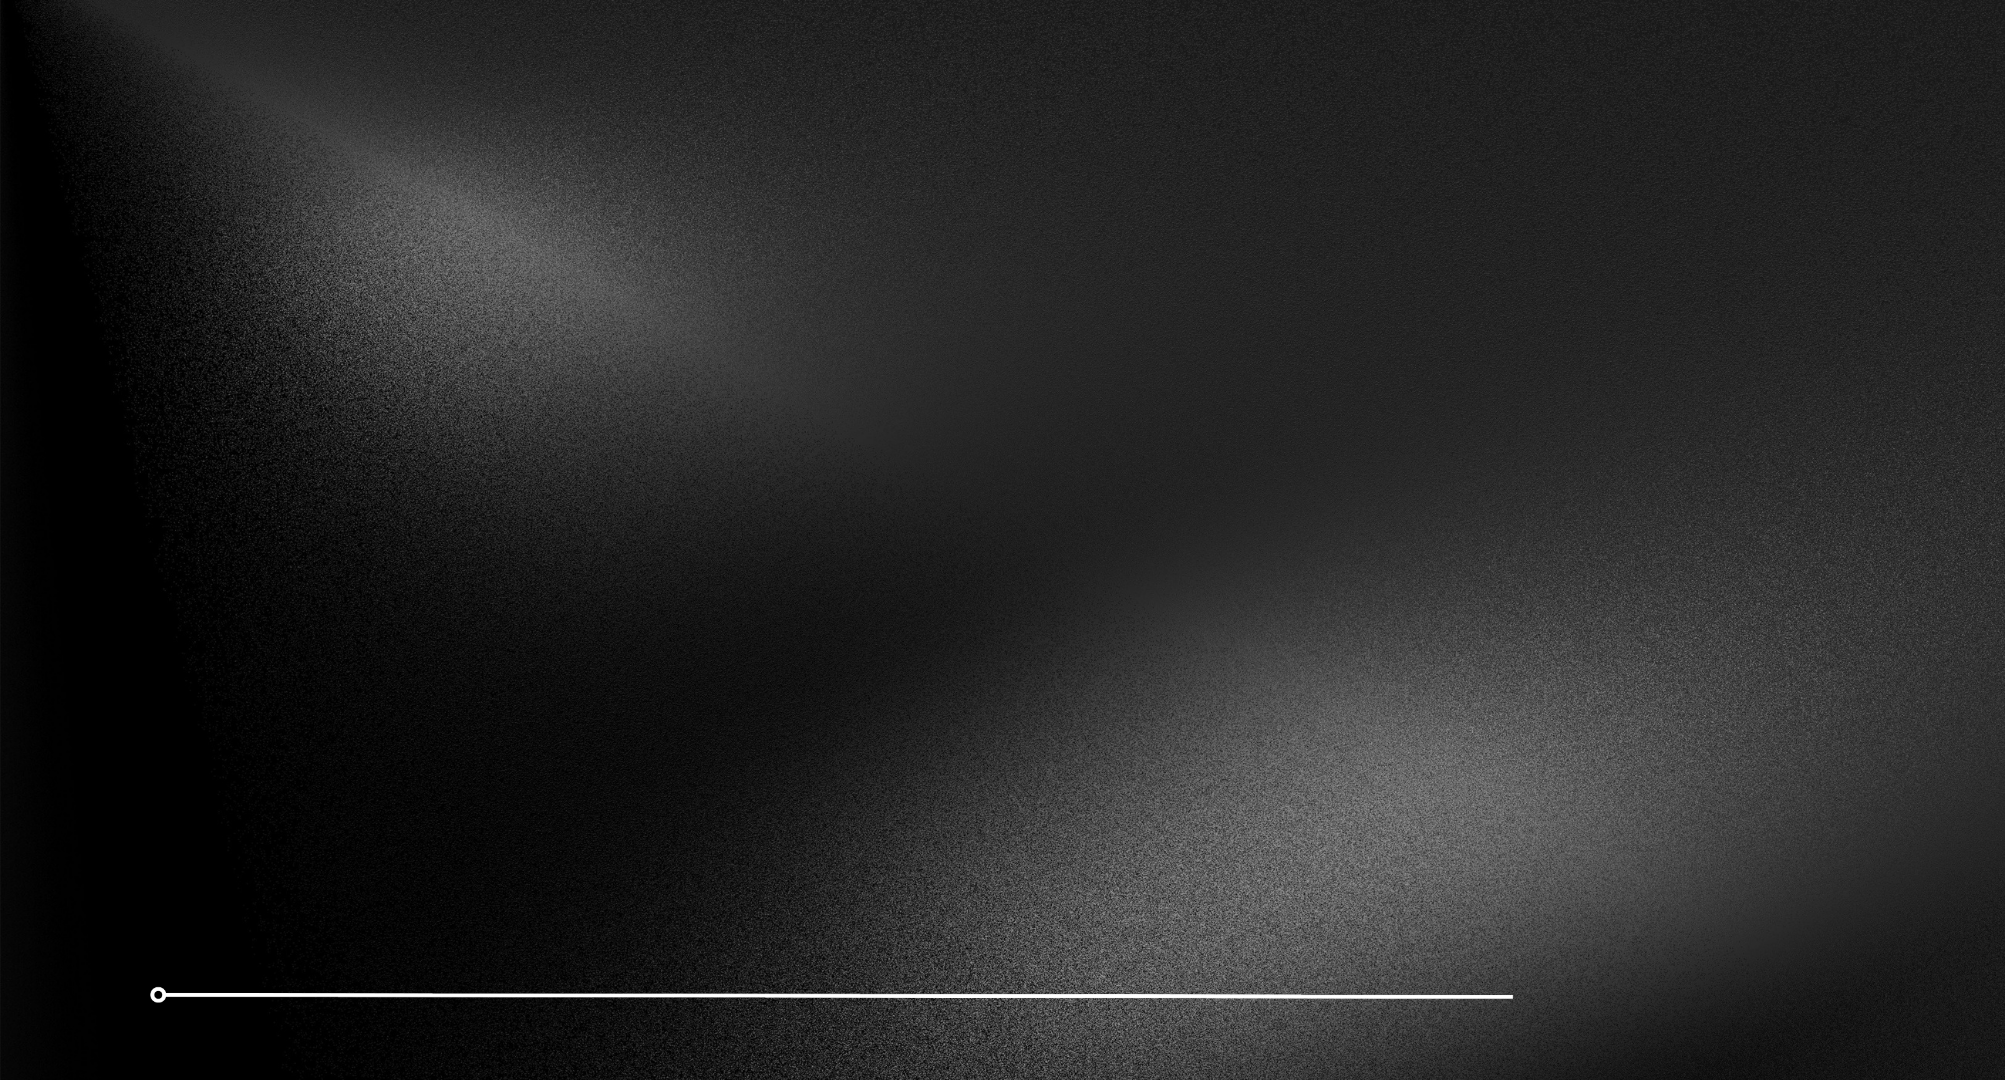
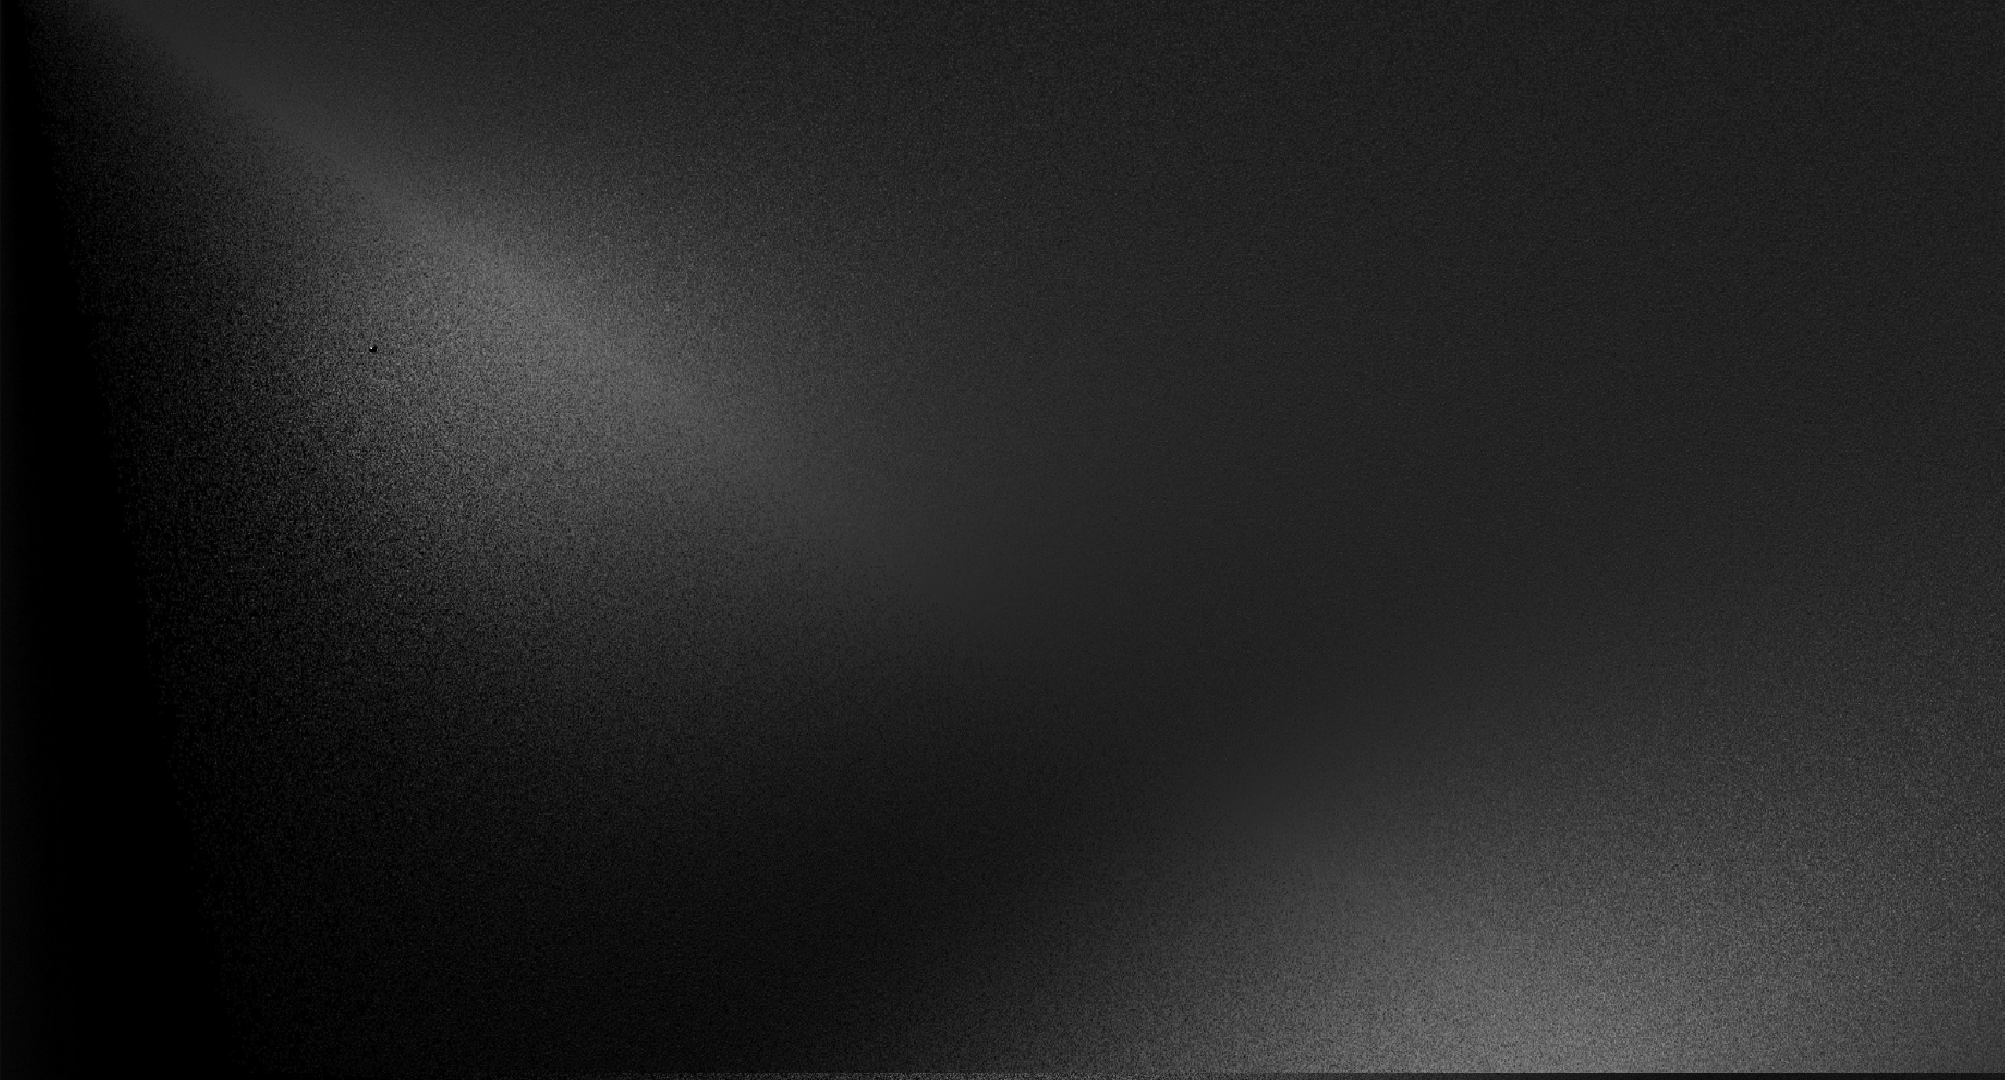
responsive for md screen

Changed region(s): [[0.0618, 0.4889, 1.0, 1.0], [0.0928, 0.1222, 0.4638, 0.7028]]

diff --git a/src/pages/Home.tsx b/src/pages/Home.tsx
@@ -24,29 +24,29 @@ const Home = () => {
 
   return (
     <motion.div
-      className="h-screen bg-hero-bg bg-cover bg-no-repeat flex flex-col justify-center overflow-y-scroll w-full md:overflow-hidden md:pl-18 lg:justify-start"
+      className="h-screen bg-hero-bg bg-cover bg-no-repeat flex flex-col justify-center overflow-y-scroll w-full md:overflow-hidden md:mt-0 md:px-5"
       initial="hidden"
       animate="visible"
       variants={container}
     >
       {/* ✅ Floating intro text */}
       <motion.div
-        className="w-full mt-[10vh] flex flex-col justify-center text-center md:absolute md:z-10 md:w-[40vw] md:text-left md:ml-12 md:mt-[25vh]"
+        className="w-full mt-[0vh] flex flex-col justify-center text-center md:z-10 md:w-[40vw] md:text-left md:ml-12 md:mt-8"
         variants={container}
       >
-        <motion.p className="text-[#38b6ff] md:text-[20px] font-mono" variants={item}>
+        <motion.p className="text-[#38b6ff] md:text-[10px] font-mono lg:text-2xl" variants={item}>
           Hello !!!
         </motion.p>
 
         <motion.p
-          className="text-[#d9d9d9] text-4xl font-extrabold md:font-bold md:text-6xl md:w-[30vw] font-league lg:text-4xl"
+          className="text-[#d9d9d9] text-4xl font-extrabold md:font-bold md:text-2xl md:w-[30vw] font-league lg:text-6xl"
           variants={item}
         >
           I'm Nwonumara Judith oluchi
         </motion.p>
 
         <motion.p
-          className="p-1 bg-[#38b6ff] text-[10px] text-center justify-center mx-24 font-bold border-2 md:text-sm md:w-[20vw] md:mx-0 lg:text-left font-league"
+          className="p-1 bg-[#38b6ff] text-[10px] text-center justify-center mx-24 font-bold border-2 md:text-[10px] md:w-[20vw] md:mx-0 lg:text-left font-league"
           variants={item}
         >
           PYTHON BACKEND DEVELOPER
@@ -54,9 +54,9 @@ const Home = () => {
       </motion.div>
 
       {/* ✅ Description + images */}
-      <div className="relative mt-10">
+      <div className="relative mt-10 ">
         <motion.p
-          className="absolute text-white w-[65vw] text-[12px] mt-5 md:text-[25px] md:w-[40vw] md:z-20 md:mt-[45vh] lg:flex lg:flex-col font-mono"
+          className="absolute text-white w-[65vw] text-[12px] mt-5 md:text-[20px] md:flex md:w-[60vw] md:z-20 md:mt-0 font-mono lg:text-3xl"
           variants={item}
         >
           Driven by a passion for creativity, technology, and precision, I bring expertise 
@@ -68,26 +68,26 @@ const Home = () => {
         <motion.img
           src={oluchi}
           alt=""
-          className="md:w-[100vw] md:z-0 md:h-[90vh] md:hidden"
+          className="md:hidden"
           variants={item}
         />
 
         <motion.img
           src={oluchiPlain}
           alt=""
-          className="absolute md:w-[40vw] md:z-0 md:h-[80vh] right-0 lg:mt-[5vh] hidden lg:flex"
+          className="md:w-[40vw] md:z-0 md:h-[40vh] ml-[60vw] hidden md:flex"
           variants={item}
         />
       </div>
 
       {/* ✅ Bottom section */}
       <motion.div
-        className="mt-[88vh] lg:flex lg:flex-row items-center hidden"
+        className="md:flex md:flex-row items-center hidden mt-[10vh]"
         variants={item}
       >
         <div className="w-[15px] h-[15px] bg-white rounded-full"></div>
         <div className="border-b-4 border-white w-[70vw] mr-5"></div>
-        <p className="text-3xl text-white font-mono">PORTFOLIO 2026</p>
+        <p className="text-xl text-white font-mono lg:text-4xl">PORTFOLIO 2026</p>
       </motion.div>
     </motion.div>
   );

diff --git a/src/pages/Contact.tsx b/src/pages/Contact.tsx
@@ -17,7 +17,7 @@ const Contact = () => {
 
   return (
     <motion.div
-      className="h-screen bg-about-bg pt-24 px-[10vw] lg:items-center lg:flex lg:flex-col lg:w-full"
+      className="h-screen bg-about-bg pt-24 px-[10vw] md:items-center lg:flex md:flex-col md:w-full"
       initial="hidden"
       animate="visible"
       variants={container}
@@ -29,7 +29,7 @@ const Contact = () => {
       </motion.div>
 
       {/* Contact cards */}
-      <motion.div className="flex pt-24 w-[80vw] lg:flex lg:items-center lg:w-full lg:pl-[10vw]" variants={container}>
+      <motion.div className="flex pt-24 w-[80vw] md:flex md:flex-row md:items-center md:w-full md:pl-[15vw]" variants={container}>
         <motion.div className="text-center flex flex-col mr-[3vw]" variants={item}>
           <MdPhoneInTalk className="text-blue-600 text-4xl lg:text-9xl w-full" />
           <h1 className="font-bold text-white text-[7px] lg:text-3xl">Phone & Mobile</h1>
@@ -56,16 +56,16 @@ const Contact = () => {
       </motion.div>
 
       {/* Bottom timeline + name */}
-      <motion.div className="items-center lg:flex lg:flex-col mt-24 hidden" variants={item}>
-        <div className="ml-5 lg:flex lg:flex-row items-center sm:hidden lg:whitespace-nowrap">
+      <motion.div className="items-center md:flex md:flex-col mt-24 hidden" variants={item}>
+        <div className="ml-5 md:flex md:flex-row items-center sm:hidden lg:whitespace-nowrap">
           <div className="w-[15px] h-[15px] bg-white rounded-full"></div>
           <div className="border-b-4 border-white w-[70vw]"></div>
           <div className="w-[15px] h-[15px] bg-white rounded-full"></div>
         </div>
 
         <motion.p
-          className="text-white text-9xl font-bold"
-          style={{ color: "transparent", WebkitTextStroke: "2px white" }}
+          className="text-white md:text-6xl font-bold whitespace-nowrap"
+          style={{ color: "transparent", WebkitTextStroke: "1px white" }}
           variants={item}
         >
           JUDITH OLUCHUKWU
@@ -74,7 +74,7 @@ const Contact = () => {
         <motion.div className="ml-5 flex flex-row items-center" variants={item}>
           <div className="w-[15px] h-[15px] bg-white rounded-full"></div>
           <div className="border-b-4 border-white w-[30vw] mr-5"></div>
-          <p className="text-2xl text-white mr-5">PORTFOLIO 2026</p>
+          <p className="text-2xl text-white mr-5 whitespace-nowrap">PORTFOLIO 2026</p>
           <div className="border-b-4 border-white w-[30vw]"></div>
           <div className="w-[15px] h-[15px] bg-white rounded-full"></div>
         </motion.div>

diff --git a/src/pages/Projects.tsx b/src/pages/Projects.tsx
@@ -36,14 +36,14 @@ const Projects = () => {
   };
 
   return (
-    <div className="h-screen bg-about-bg pt-24 overflow-y-scroll pb-12 lg:px-[5vw]">
+    <div className="h-screen bg-about-bg pt-24 overflow-y-scroll pb-12 md:px-[5vw]">
       <div className="text-white font-bold border-b-8 w-42 border-blue-600 lg:text-5xl lg:whitespace-nowrap lg:w-fit lg:pb-5">
         SELECTED PROJECTS
       </div>
 
       <motion.div
         ref={scrollRef}
-        className="lg:flex lg:flex-row lg:overflow-x-auto gap-x-32 lg:whitespace-nowrap no-scrollbar overflow-y-scroll"
+        className="md:flex md:flex-row md:overflow-x-auto gap-x-32 lg:whitespace-nowrap no-scrollbar overflow-y-scroll"
         style={{ scrollBehavior: "smooth" }}
         initial="hidden"
         animate="visible"
@@ -52,20 +52,20 @@ const Projects = () => {
         {projects.map((project, index) => (
           <motion.div
             key={index}
-            className="mt-12 lg:flex-shrink-0 lg:w-[30vw]"
+            className="mt-12 md:flex-shrink-0 md:w-[30vw]"
             variants={item}
           >
             <div>
               <img
                 src={project.img}
                 alt="project img"
-                className="h-[20vh] w-[30vh] mt-3 lg:w-[20vw] lg:h-[20vw]"
+                className="h-[20vh] w-[30vh] mt-3 md:w-[20vw] md:h-[20vw]"
               />
               <div>
                 <h1 className="font-bold text-white lg:text-4xl font-league">
                   {project.project}
                 </h1>
-                <p className="text-white whitespace-normal lg:text-2xl">
+                <p className="text-white whitespace-normal md:text-sm">
                   {project.description}
                 </p>
               </div>
@@ -73,12 +73,13 @@ const Projects = () => {
           </motion.div>
         ))}
       </motion.div>
-
-      {/* Bottom line */}
-      <motion.div className="ml-5 lg:flex lg:flex-row items-center hidden">
+      <motion.div
+        className="md:flex md:flex-row items-center hidden mt-[10vh]"
+        variants={item}
+      >
         <div className="w-[15px] h-[15px] bg-white rounded-full"></div>
         <div className="border-b-4 border-white w-[70vw] mr-5"></div>
-        <p className="text-3xl text-white">PORTFOLIO 2026</p>
+        <p className="text-xl text-white font-mono md:text-sm md:whitespace-nowrap">PORTFOLIO 2026</p>
       </motion.div>
     </div>
   );

diff --git a/src/pages/AboutMe.tsx b/src/pages/AboutMe.tsx
@@ -23,7 +23,7 @@ const AboutMe = () => {
 
   return (
     <motion.div
-      className="h-screen bg-about-bg bg-cover bg-no-repeat pt-32 md:overflow-hidden md:pt-16"
+      className="h-screen bg-about-bg bg-cover bg-no-repeat pt-32 md:overflow-hidden md:pt-32"
       initial="hidden"
       animate="visible"
       variants={container}
@@ -33,20 +33,20 @@ const AboutMe = () => {
           <motion.img
             src={aboutImg}
             alt=""
-            className="h-[250px] md:px-12 lg:h-[70vh] lg:mt-10"
+            className="h-[250px] md:px-12 md:h-[60vh] lg:mt-10"
             variants={item}
           />
 
-          <motion.div className="px-2 md:w-[40vw] md:ml-28 white" variants={item}>
+          <motion.div className="px-2 md:w-[40vw] white" variants={item}>
             <motion.h1
-              className="text-white font-extrabold text-center border-b-4 border-blue-500 md:w-32 md:pb-2 lg:text-4xl lg:whitespace-nowrap lg:mt-[10vh] lg:py-[5vh] lg:mb-16 font-league"
+              className="text-white font-extrabold text-center border-b-4 border-blue-500 md:w-32 md:pb-2 md:text-2xl md:whitespace-nowrap lg:mt-[10vh] lg:py-[5vh] lg:mb-16 font-league"
               variants={item}
             >
               MY BIOGRAPHY
             </motion.h1>
 
             <motion.p
-              className="text-white text-[10px] md:font-semibold md:text-2xl font-mono"
+              className="text-white text-[10px] md:font-semibold md:text-sm font-mono"
               variants={item}
             >
               I am a Python backend developer and robotics enthusiast currently
@@ -136,10 +136,13 @@ const AboutMe = () => {
       </motion.div>
 
       {/* Bottom line */}
-      <motion.div className="ml-5 lg:flex lg:flex-row items-center hidden" variants={item}>
+      <motion.div
+        className="md:flex md:flex-row items-center hidden mt-[10vh]"
+        variants={item}
+      >
         <div className="w-[15px] h-[15px] bg-white rounded-full"></div>
         <div className="border-b-4 border-white w-[70vw] mr-5"></div>
-        <p className="text-3xl text-white">PORTFOLIO 2026</p>
+        <p className="text-xl text-white font-mono lg:text-4xl">PORTFOLIO 2026</p>
       </motion.div>
     </motion.div>
   );

diff --git a/src/pages/Experiences.tsx b/src/pages/Experiences.tsx
@@ -22,7 +22,7 @@ const Experiences = () => {
 
   return (
     <motion.div
-      className="h-full bg-about-bg pb-10 pt-24 lg:px-[5vw]"
+      className="h-full bg-about-bg pb-10 pt-24 md:px-[5vw] md:h-screen"
       initial="hidden"
       animate="visible"
       variants={container}
@@ -87,11 +87,13 @@ const Experiences = () => {
         </motion.div>
       </motion.div>
 
-      {/* Bottom line */}
-      <motion.div className="ml-5 lg:flex lg:flex-row items-center mt-[25vh] hidden" variants={item}>
+      <motion.div
+        className="md:flex md:flex-row items-center hidden mt-[10vh]"
+        variants={item}
+      >
         <div className="w-[15px] h-[15px] bg-white rounded-full"></div>
         <div className="border-b-4 border-white w-[70vw] mr-5"></div>
-        <p className="text-3xl text-white">PORTFOLIO 2026</p>
+        <p className="text-xl text-white font-mono lg:text-2xl whitespace-nowrap">PORTFOLIO 2026</p>
       </motion.div>
     </motion.div>
   );

diff --git a/src/pages/Education.tsx b/src/pages/Education.tsx
@@ -22,7 +22,7 @@ const Education = () => {
 
   return (
     <motion.div
-      className="h-full bg-about-bg pt-32 pb-8 px-2 lg:px-[5vw]"
+      className="h-full bg-about-bg pt-32 pb-8 px-2 lg:px-[5vw] md:h-screen"
       initial="hidden"
       animate="visible"
       variants={container}
@@ -72,11 +72,13 @@ const Education = () => {
         </motion.div>
       </motion.div>
 
-      {/* Bottom line */}
-      <motion.div className="ml-5 lg:flex flex-row items-center hidden" variants={item}>
+      <motion.div
+        className="md:flex md:flex-row items-center hidden mt-[10vh]"
+        variants={item}
+      >
         <div className="w-[15px] h-[15px] bg-white rounded-full"></div>
         <div className="border-b-4 border-white w-[70vw] mr-5"></div>
-        <p className="text-3xl text-white">PORTFOLIO 2026</p>
+        <p className="text-xl text-white font-mono lg:text-4xl">PORTFOLIO 2026</p>
       </motion.div>
     </motion.div>
   );

diff --git a/src/components/DesktopNav.tsx b/src/components/DesktopNav.tsx
@@ -28,7 +28,7 @@ const DesktopNav = () => {
       variants={containerVariants}
     >
       <motion.ul
-        className="flex flex-row space-x-[5vw] text-white text-[10px] z-10 lg:text-[20px] w-full items-center whitespace-nowrap font-mono"
+        className="flex flex-row space-x-[5vw] text-white text-[10px] z-10 md:text-[12px] lg:text-3xl w-full items-center whitespace-nowrap font-mono"
         variants={containerVariants}
       >
         <motion.li variants={itemVariants}><Link to="/about">ABOUT ME</Link></motion.li>
@@ -42,7 +42,7 @@ const DesktopNav = () => {
           className="flex flex-row items-center"
           variants={itemVariants}
         >
-          <div className="border-b-4 border-white w-[20vw]"></div>
+          <div className="border-b-4 border-white w-[10vw]"></div>
           <div className="w-[15px] h-[15px] bg-white rounded-full"></div>
         </motion.li>
       </motion.ul>

diff --git a/src/components/Header.tsx b/src/components/Header.tsx
@@ -10,8 +10,8 @@ const Header = () => {
     <div className="absolute px-4 py-4 flex flex-row w-[100vw] ">
       <motion.button
   whileHover={{ scale: 1.1 }}
-  whileTap={{ scale: 0.95 }}><Link to="/" className="p-1 bg-[#38b6ff] text-black font-bold lg:text-3xl font-mono">JUDITH OLUCHI</Link></motion.button>
-      <div className='ml-auto w-[50vw] lg:ml-[5vw]'>
+  whileTap={{ scale: 0.95 }}><Link to="/" className="p-1 bg-[#38b6ff] text-black font-bold md:text-xl font-mono lg:text-3xl">JUDITH OLUCHI</Link></motion.button>
+      <div className='ml-auto w-[50vw] md:ml-5'>
         {isMobile ? <MobileNav /> : <DesktopNav />}
       </div>
     </div>

diff --git a/src/index.css b/src/index.css
@@ -22,14 +22,6 @@
     --font-league: "League Spartan", sans-serif;
   --font-mono: monospace;
   
-  --breakpoint-sm: 640px;
-
-  /* md and lg use the same breakpoint */
-  --breakpoint-md: 1280px;
-  --breakpoint-lg: 1280px;
-
-  /* --breakpoint-xl: 1280px; */
-  --breakpoint-2xl: 1536px;
 }
 
 .no-scrollbar::-webkit-scrollbar {
